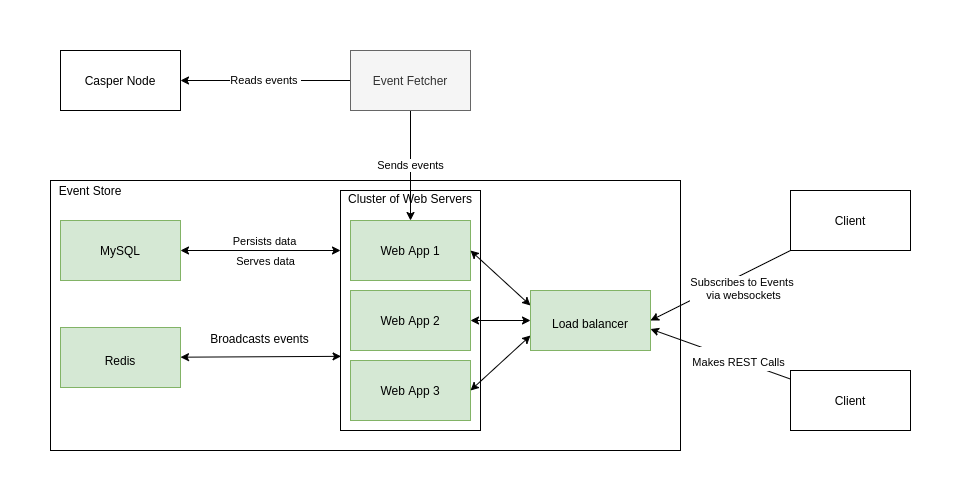
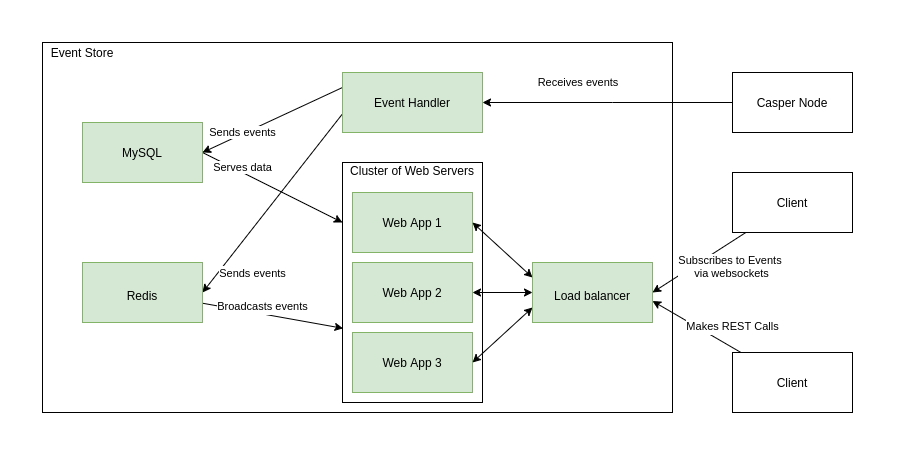
PR fixes

diff --git a/README.md b/README.md
@@ -6,9 +6,7 @@
 Event Fetcher is a program that is responsible for:
 * Reading events from Casper Node. It requires constantly open HTTP connection.
 * Retrying Casper Node connection if it drops.
-* Parsing events and sending them to the Event Store using
-  REST API. If Event Store is not available, events should be kept in the memory
-  and handled later.
+* Parsing events and sending them to the database using direct connection.
 
 systemd should supervise the Event Fetcher and restart it if required.
 
